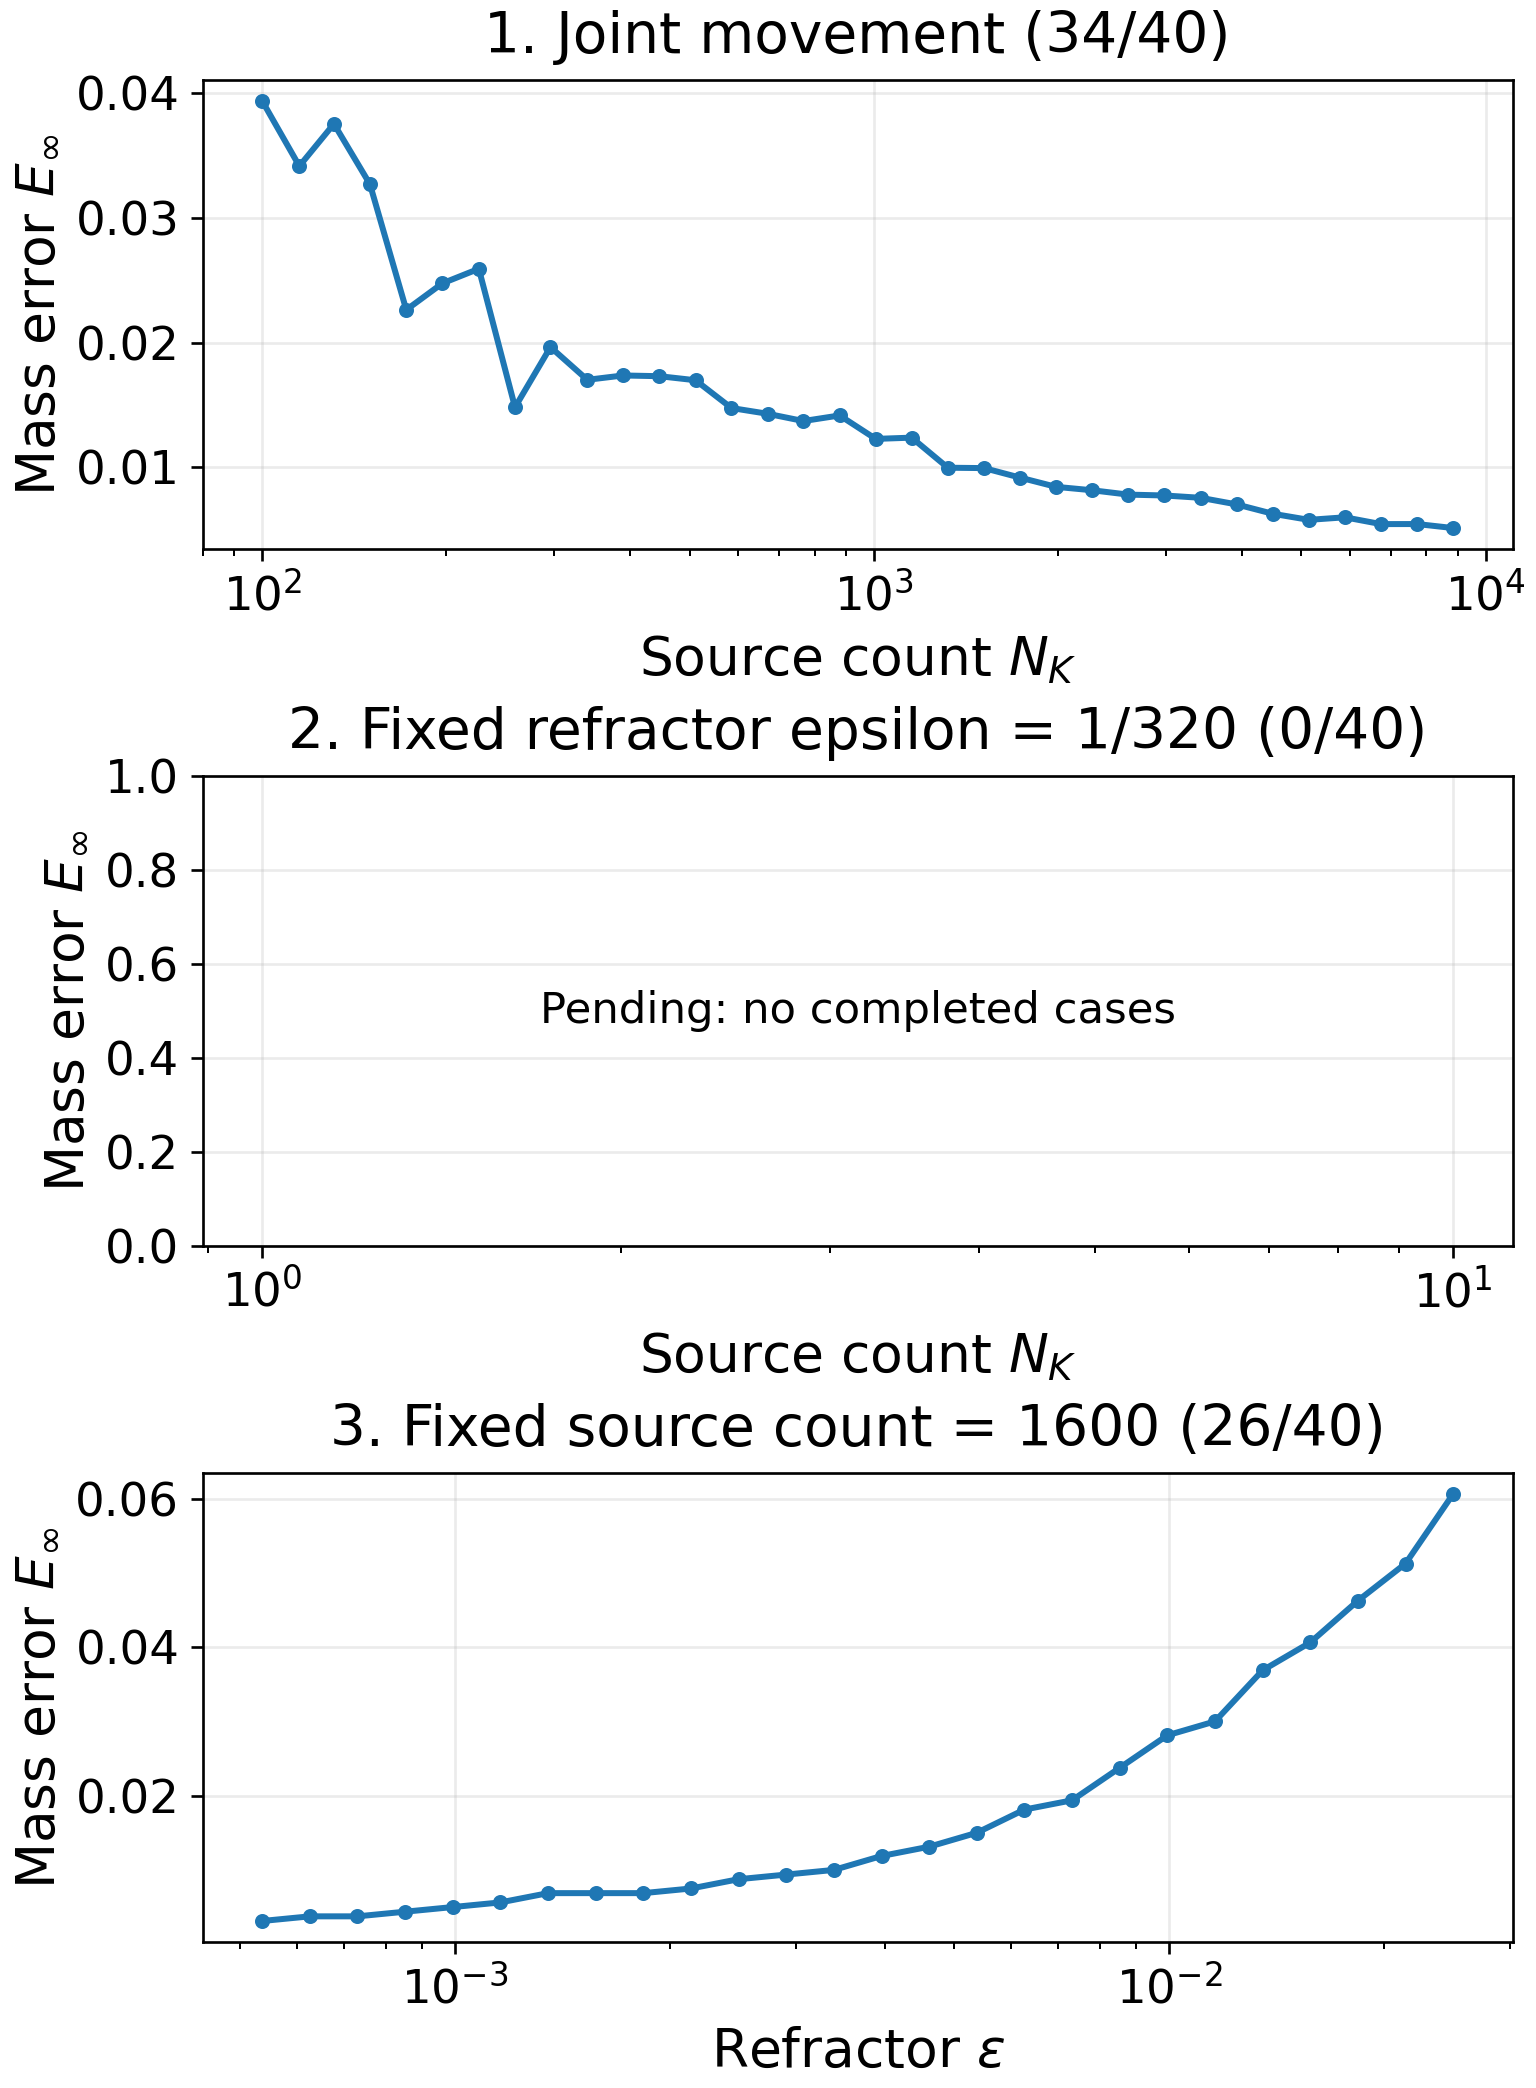
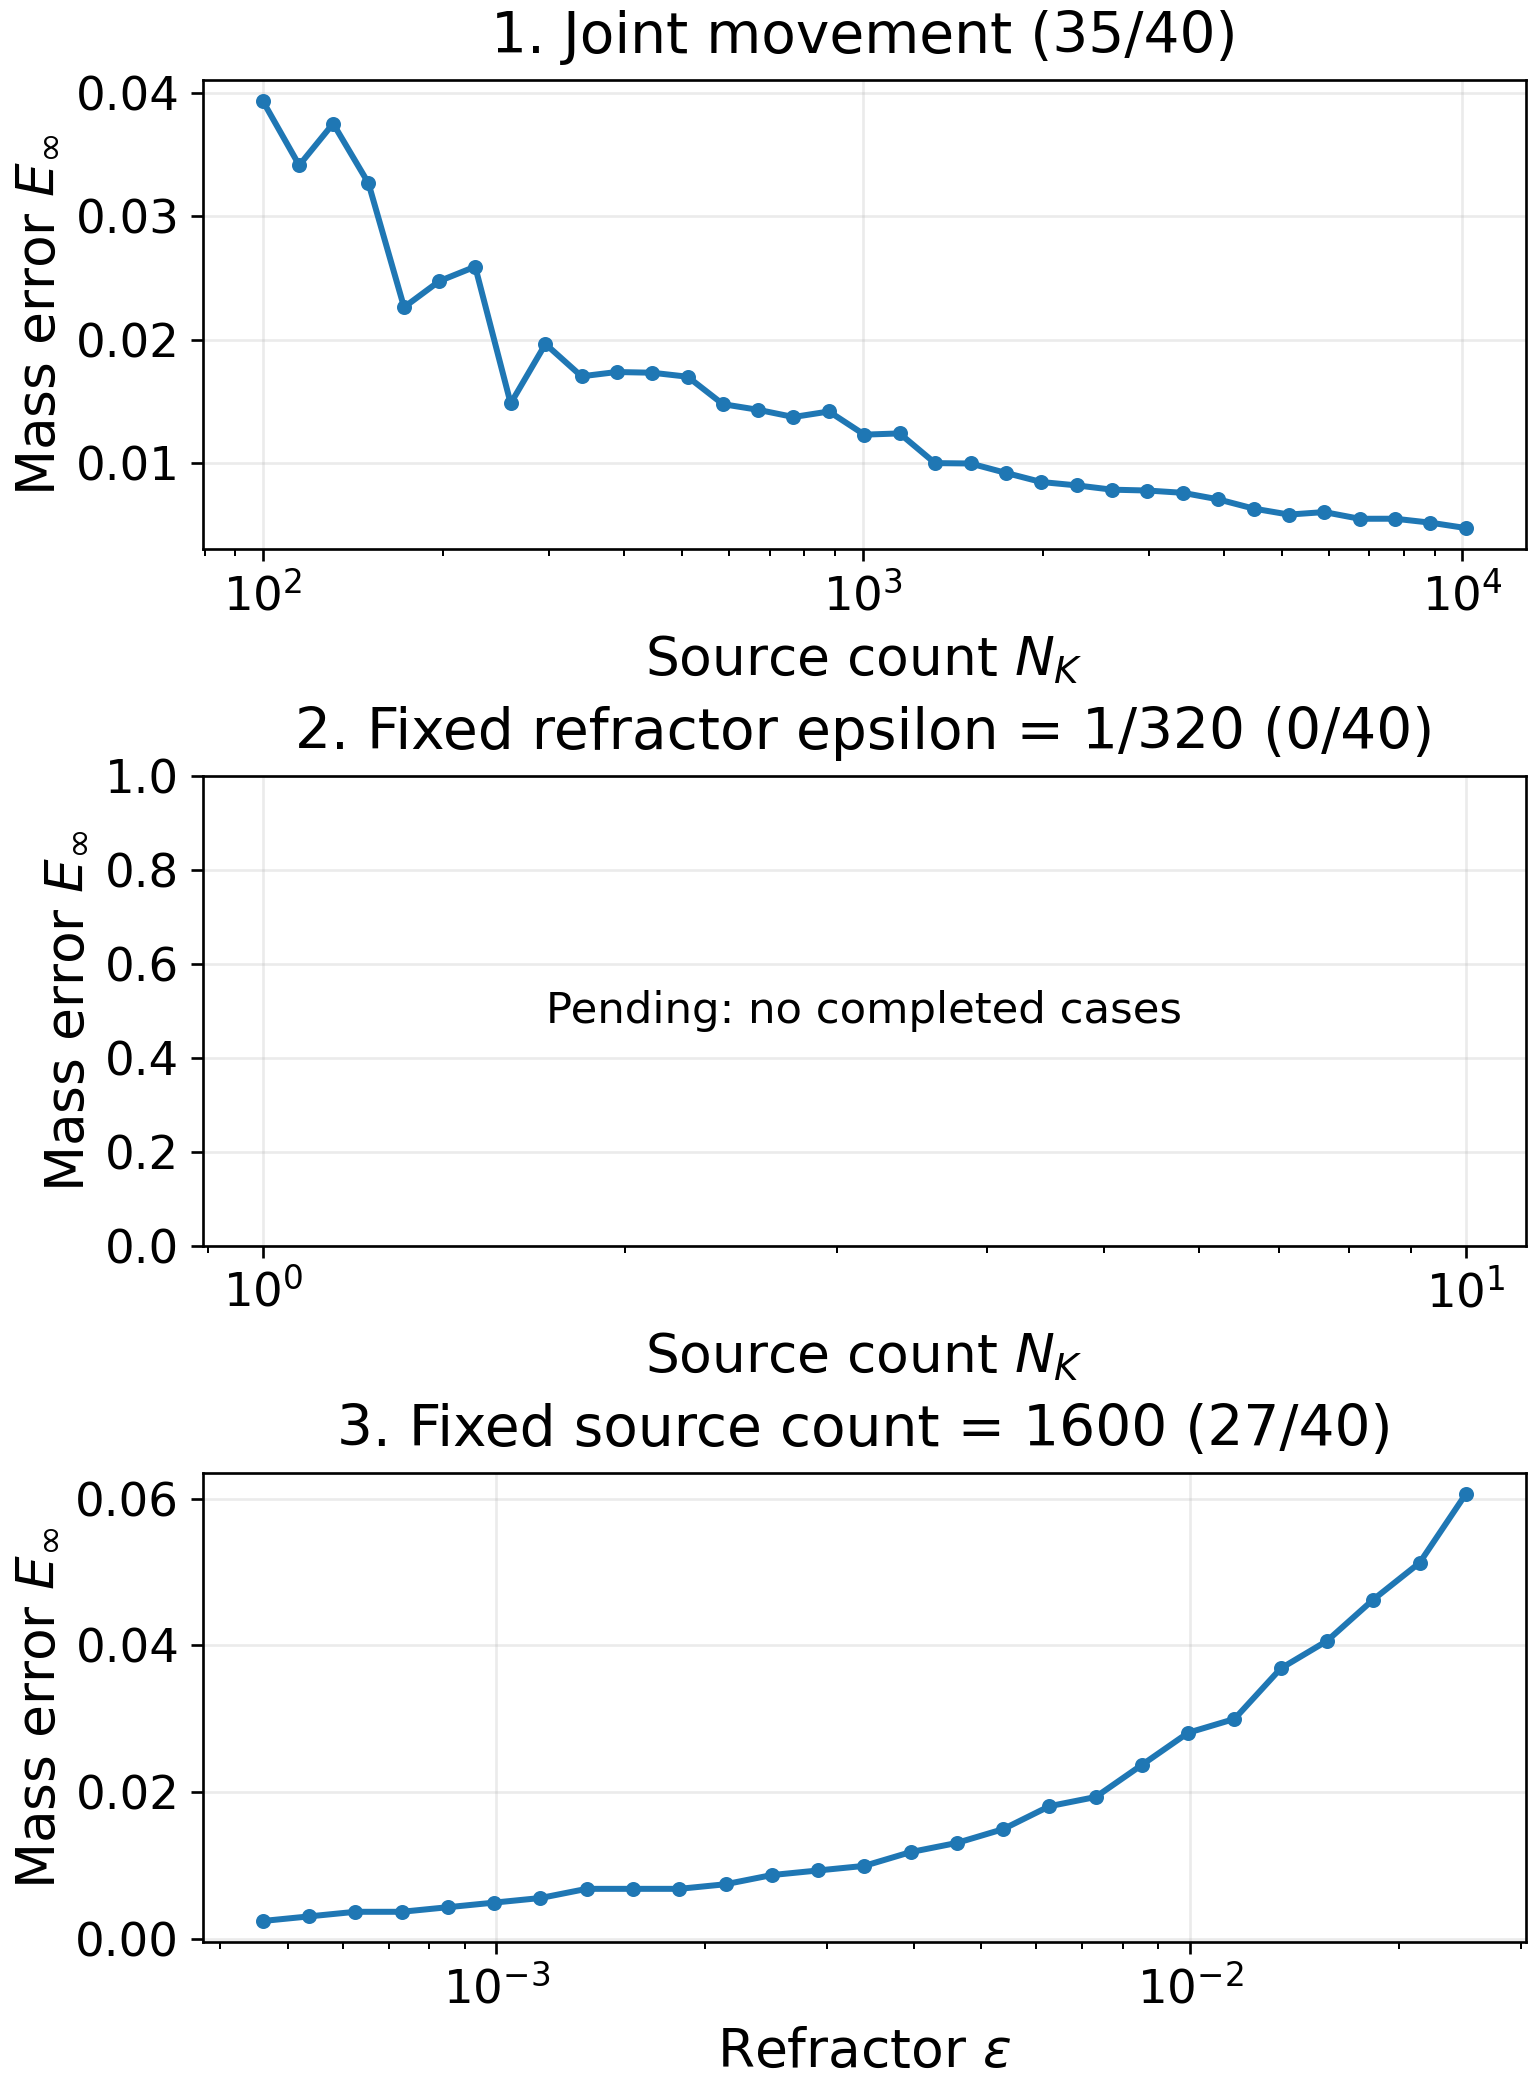
Resume strict epsilon solves with extra self-refinement budget

diff --git a/refracter/sinkhorn.py b/refracter/sinkhorn.py
@@ -687,7 +687,8 @@ def optical_marginal_errors(x, y, p, q, f, g, epsilon, chunk_size=512):
 
 def run_sinkhorn_divergence(x, y, p, q, chunk_size=512, verbose=True, epsilon=None,
                             separate_marginals=False, max_iter=17,
-                            identity_max_iter=17, tolerance=1e-5, marginal_tolerance=None):
+                            identity_max_iter=17, tolerance=1e-5, marginal_tolerance=None,
+                            identity_refinement_budget=0):
     """Run the full divergence when only main-grid weights are available.
 
     The C++ executable receives separate small-grid density evaluations from
@@ -702,6 +703,9 @@ def run_sinkhorn_divergence(x, y, p, q, chunk_size=512, verbose=True, epsilon=No
     None disables the corresponding cap. ``tolerance`` is the potential-change
     stopping threshold. Optional ``marginal_tolerance`` additionally requires
     feasibility of transport and both self solves, raising on a failed cap.
+    ``identity_refinement_budget`` permits additional identical self updates
+    when strict marginal feasibility is requested. It changes only the work
+    budget; the stopping tolerances and update equations remain unchanged.
     Returned numeric
     diagnostics record the final update count and change for all three solves.
     """
@@ -719,18 +723,23 @@ def run_sinkhorn_divergence(x, y, p, q, chunk_size=512, verbose=True, epsilon=No
         separate_marginals=separate_marginals,
         max_iter=max_iter, identity_max_iter=identity_max_iter, tolerance=tolerance,
         marginal_tolerance=marginal_tolerance,
+        identity_refinement_budget=identity_refinement_budget,
     )
 
 
 def _run_sinkhorn_divergence_inner(x, y, p, q, x_s, y_s, p_s, q_s,
                                    chunk_size=512, verbose=True, epsilon=None,
                                    separate_marginals=False, max_iter=17,
-                                   identity_max_iter=17, tolerance=1e-5, marginal_tolerance=None):
+                                   identity_max_iter=17, tolerance=1e-5, marginal_tolerance=None,
+                                   identity_refinement_budget=0):
     """Full Sinkhorn divergence (C++ do_sinkhorn_subtracted_axb).
 
     Returns dict with keys: f, g, f_id, g_id, total_cost.
     """
     NK = len(x)
+    if (not isinstance(identity_refinement_budget, (int, np.integer))
+            or identity_refinement_budget < 0):
+        raise ValueError('identity_refinement_budget must be a nonnegative integer')
     if any(limit is not None and (not isinstance(limit, (int, np.integer)) or limit < 1)
            for limit in (max_iter, identity_max_iter)):
         raise ValueError("Iteration limits must be positive integers or None (uncapped)")
@@ -785,6 +794,8 @@ def _run_sinkhorn_divergence_inner(x, y, p, q, x_s, y_s, p_s, q_s,
     # C++ stores each fractional increment back into an int (truncation).
     step = int(np.floor(k_final ** (1.0 / 3.0)))               # 10
     cap_iter = identity_max_iter
+    if cap_iter is not None and marginal_tolerance is not None:
+        cap_iter += identity_refinement_budget
     cap_thr = tolerance
 
     if verbose:

diff --git a/scripts/run_refraction_sweeps.py b/scripts/run_refraction_sweeps.py
@@ -81,6 +81,8 @@ def main():
     parser.add_argument("--pf-max-iter", type=int, default=2000)
     parser.add_argument("--refractor-max-iter", type=int, default=17, help="Final transport updates; 0 disables cap")
     parser.add_argument("--identity-max-iter", type=int, default=17, help="Final updates per self solve; 0 disables cap")
+    parser.add_argument('--identity-refinement-budget', type=int, default=0,
+                        help='Additional self updates under the same strict feasibility tolerance')
     parser.add_argument("--refractor-tolerance", type=float, default=1e-5)
     parser.add_argument("--optical-marginal-tolerance", type=float, default=1e-7,
                         help="Required L1 feasibility of optical transport and both self solves")
@@ -131,6 +133,8 @@ def main():
         args.import_costs = resolve_path(args.import_costs)
     if min(args.refractor_max_iter, args.identity_max_iter) < 0:
         parser.error("Iteration caps must be nonnegative (0 means uncapped)")
+    if args.identity_refinement_budget < 0:
+        parser.error('Identity refinement budget must be nonnegative')
     if args.chunk_size < 1 or not all(np.isfinite(v) and v > 0 for v in (args.refractor_tolerance, args.pf_tolerance, args.optical_marginal_tolerance)):
         parser.error("Chunk size and tolerances must be finite and positive")
     enable_threaded_reductions(args.workers)
@@ -235,6 +239,7 @@ def main():
                                                chunk_size=args.chunk_size,
                                                max_iter=args.refractor_max_iter or None,
                                                identity_max_iter=args.identity_max_iter or None,
+                                               identity_refinement_budget=args.identity_refinement_budget,
                                                tolerance=args.refractor_tolerance,
                                                marginal_tolerance=args.optical_marginal_tolerance)
             def optical_solve():
@@ -251,6 +256,8 @@ def main():
                     separate_marginals=args.target_nk is not None,chunk_size=args.chunk_size,
                     max_iter=args.refractor_max_iter,identity_max_iter=args.identity_max_iter,
                     tolerance=args.refractor_tolerance,marginal_tolerance=args.optical_marginal_tolerance)
+                if args.identity_refinement_budget:
+                    settings['identity_refinement_budget'] = args.identity_refinement_budget
                 identity=problem_key((x,y,p,q),settings)
                 solution=get_or_solve(args.shared_optical_cache,identity,optical_solve)
             else:

diff --git a/tests/test_identity_refinement_budget.py b/tests/test_identity_refinement_budget.py
@@ -1,0 +1,41 @@
+import numpy as np
+import pytest
+
+from refracter.cost import get_kappa, set_kappa
+from refracter.sinkhorn import run_sinkhorn_divergence
+
+
+def test_refinement_reaches_same_strict_solution_as_larger_cap():
+    old = get_kappa()
+    set_kappa(.8)
+    try:
+        a = np.linspace(.15, .8, 12)
+        x = np.array([np.sin(a), np.zeros(12), np.cos(a)]).T
+        a = np.linspace(.2, .4, 9)
+        y = np.array([np.sin(a)*.7, np.sin(a)*np.sqrt(.51), np.cos(a)]).T
+        args = dict(epsilon=.0003949243034490774, separate_marginals=True,
+                    max_iter=20000, marginal_tolerance=1e-7, verbose=False)
+        weights = (np.ones(12)/12, np.ones(9)/9)
+        with pytest.raises(RuntimeError, match='Source self solve failed marginal feasibility'):
+            run_sinkhorn_divergence(x, y, *weights, identity_max_iter=1, **args)
+        extended = run_sinkhorn_divergence(x, y, *weights, identity_max_iter=1,
+                                          identity_refinement_budget=19999, **args)
+        reference = run_sinkhorn_divergence(x, y, *weights, identity_max_iter=20000, **args)
+        assert extended['source_identity_iterations'] > 1
+        for field in extended:
+            np.testing.assert_array_equal(extended[field], reference[field])
+        assert extended['source_identity_marginal_l1'] <= 1e-7
+        assert extended['target_identity_marginal_l1'] <= 1e-7
+        with pytest.raises(RuntimeError, match='Source self solve failed marginal feasibility'):
+            run_sinkhorn_divergence(x, y, *weights, identity_max_iter=1,
+                                   identity_refinement_budget=1, **args)
+    finally:
+        set_kappa(old)
+
+
+@pytest.mark.parametrize('budget', [-1, .5, None])
+def test_invalid_refinement_budget(budget):
+    points = np.array([[0., 0., 1.]])
+    with pytest.raises(ValueError, match='identity_refinement_budget'):
+        run_sinkhorn_divergence(points, points, [1.], [1.],
+                               identity_refinement_budget=budget, verbose=False)

diff --git a/scripts/run_three_refractor_problems.py b/scripts/run_three_refractor_problems.py
@@ -34,6 +34,7 @@ def main():
     parser.add_argument('--cost-cache-mib',type=int,default=0)
     parser.add_argument('--refractor-max-iter', type=int, default=10000)
     parser.add_argument('--identity-max-iter', type=int, default=10000)
+    parser.add_argument('--identity-refinement-budget', type=int, default=0)
     parser.add_argument("--diagnostics-only", action="store_true",
                         help="Recover diagnostics while existing optical workers continue")
     args = parser.parse_args()
@@ -45,6 +46,7 @@ def main():
               "--refractor-max-iter", str(args.refractor_max_iter), "--identity-max-iter", str(args.identity_max_iter),
               "--workers", str(args.workers), "--chunk-size", str(args.chunk_size), *CASES[args.case]]
     common += ['--cost-cache-mib',str(args.cost_cache_mib)]
+    common += ['--identity-refinement-budget',str(args.identity_refinement_budget)]
     if args.nk:
         common += ['--nk', *map(str,args.nk)]
     if args.epsilon:

diff --git a/geometric_optics_progress/repaired_kappa_results.tex b/geometric_optics_progress/repaired_kappa_results.tex
@@ -3,8 +3,8 @@
 \label{sec:repaired-kappa-progress}
 The following figures use the repaired solver with $\kappa=0.8$ and the
 same source and target geometry as the original $\kappa=0.6$ sweep above.
-They are a separate, partial run. Captured October 29, 2026 at 16:09 (UTC), there are
-60 paired completed cases per map out of 120: 34, 0, 26 in experiments
+They are a separate, partial run. Captured October 29, 2026 at 22:47 (UTC), there are
+62 paired completed cases per map out of 120: 35, 0, 27 in experiments
 1, 2, and 3, respectively (40 planned per experiment).
 The independent epsilon worker contributes completed experiment-3 cases;
 matching case keys are counted once. Pending cases are omitted.

diff --git a/geometric_optics_progress/raw_eot_results.tex b/geometric_optics_progress/raw_eot_results.tex
@@ -24,8 +24,8 @@ Hard-map mass error is a separate diagnostic and has no debiasing step.
  \includegraphics[width=\textwidth]{repaired_kappa_raw_eot_comparison.png}
  \caption{\large Repaired $\kappa=0.8$ run without debiasing:
  raw cross-EOT at evaluation $\varepsilon=1/320$ for the hard and entropic
- maps, with logarithmic axes. This uses the same 60 paired cases as
- the repaired divergence figure: 34, 0, 26 in experiments 1, 2, and 3.
+ maps, with logarithmic axes. This uses the same 62 paired cases as
+ the repaired divergence figure: 35, 0, 27 in experiments 1, 2, and 3.
  Pending cases are omitted.}
  \label{fig:repaired-kappa-raw-eot}
 \end{figure}

diff --git a/results/runs/repaired_refractor_kappa_oct_28_26/README.md b/results/runs/repaired_refractor_kappa_oct_28_26/README.md
@@ -66,3 +66,22 @@ Warm-start self-smoothing now computes the same full row reductions in tiles. At
 The larger matrix only partly fits the cache. Measured output differences were zero and retained blocks stayed within budget. These are timings under production load, not whole-sweep speedup claims. The full suite passed **97 tests**, including dense-versus-tiled warm-start equivalence, cached/uncached optical solves and CLI outputs, memory bounds, input immutability, kappa changes and cleanup after exceptions.
 
 [Cache rollout settings](metadata/cost_cache_plan.json) | [Raw cache benchmark](metadata/cost_cache_benchmark.json) | [Cache benchmark script](../../../scripts/benchmark_cost_cache.py)
+
+## Epsilon worker recovery, October 29
+
+The epsilon worker exhausted its 10,000-update source-self budget at optical
+epsilon 0.0003949243034490774, with marginal L1 residual 4.069610924e-7.
+It was restarted from the 27 completed epsilon cases using
+`--identity-refinement-budget 190000`: up to 200,000 identical final self
+updates per case. The optical tolerance remains **1e-7**, and the potential
+change tolerance remains **1e-5**. No truncation, equations, grid, geometry,
+or accepted saved maps were changed. Failed cases are still rejected at the
+extended cap. The shared solve cache distinguishes the added work budget.
+The old failed adoption task is disabled; the resumed supervisor owns the
+optical workers, divergence evaluator, and plot watcher.
+
+[Restart details](metadata/epsilon_recovery.json) |
+[Latest validated figures and data](../../../geometric_optics_progress/README.md).
+The refreshed write-up capture contains 62 paired cases per map (35 joint,
+zero fixed-epsilon, 27 fixed-source). The restarted case is not included
+until it meets the original feasibility checks. All 101 tests pass.

diff --git a/results/published/repaired_kappa_progress_oct_28_26/README.md b/results/published/repaired_kappa_progress_oct_28_26/README.md
@@ -1,6 +1,6 @@
 # Repaired kappa=0.8 progress
 
-[October 29 write-up figures: 60 paired completed cases](../../../geometric_optics_progress/README.md) | [Overleaf](https://www.overleaf.com/project/69695773fcd59c00e6008659). The repaired-run figures are appended on pages 32–33.
+[October 29 write-up figures: 62 paired completed cases](../../../geometric_optics_progress/README.md) | [Overleaf](https://www.overleaf.com/project/69695773fcd59c00e6008659). The repaired-run figures are appended on pages 32–33.
 
 **Bounded cost caching is implemented:** [256 MiB budget, benchmarks and rollout](../../runs/repaired_refractor_kappa_oct_28_26/#bounded-cost-cache). Existing cases finish before cached workers take over.
 

diff --git a/geometric_optics_progress/metadata/repaired_kappa_capture/README.md b/geometric_optics_progress/metadata/repaired_kappa_capture/README.md
@@ -1,7 +1,7 @@
 # Repaired kappa write-up capture
 
-Captured October 29, 2026 at 16:09 UTC. There are 60 paired completed cases per
-map: 34 joint movement, zero fixed epsilon, and 26 fixed source-count cases.
+Captured October 29, 2026 at 22:47 UTC. There are 62 paired completed cases per
+map: 35 joint movement, zero fixed epsilon, and 27 fixed source-count cases.
 The planned total is 120 per map. Pending cases are omitted.
 
 [Hard divergence](hard.csv) | [Entropic divergence](entropic.csv) |
